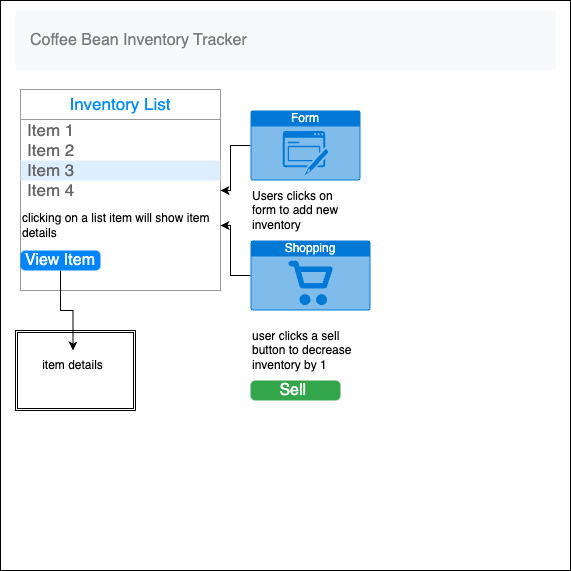
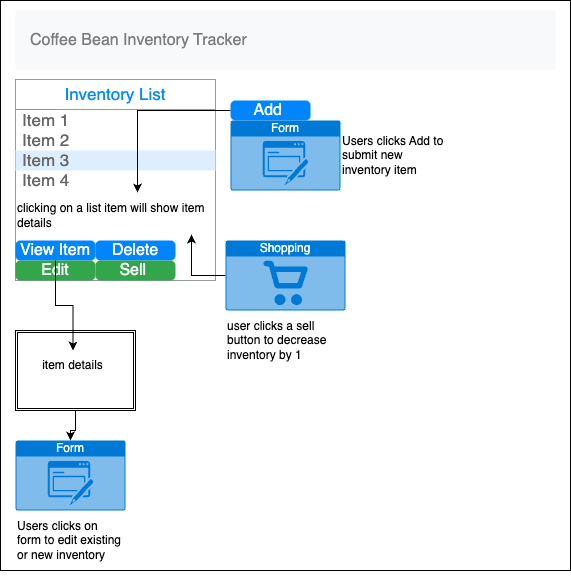
update component diagram

diff --git a/README.md b/README.md
@@ -11,6 +11,8 @@
 * Nodejs
 * Webpack
 * Node.js
+* JSX
+* Javascript
 
 #### Initial Mockup designed in draw.io [drawio.com](https://www.drawio.com/)
 
@@ -30,9 +32,15 @@ As a user, I want to see a list/menu of all available types of coffee beans. For
 
 ## Setup/Installation Requirements
 
+## Setup Instructions 
+1. Open your terminal (e.g. Terminal of Gitbash) and run these commands:
+2. Clone this repo to your desktop using $ `git clone https://github.com/eusebiedev/Inventory-Tracker.git ` 
+3. Navigate to this project's root directory `inventory-tracker` with $ `cd inventory-tracker`
+4. Run $ `npm install` in the project's root directory to install any necessary dependencies.
+5. Run $ `npm start` in the project's root directory to start the server. Once the server loads, the webpage should load automatically but if not type in the localhost route that your terminal shows like `https://localhost:5001/`.
+6. User should have full CRUD functionality to interact with the application
 
-
-## Known Bugs as of 06/30.23
+## Known Bugs as of 06/30/23
 
 * _No known bugs_
 
